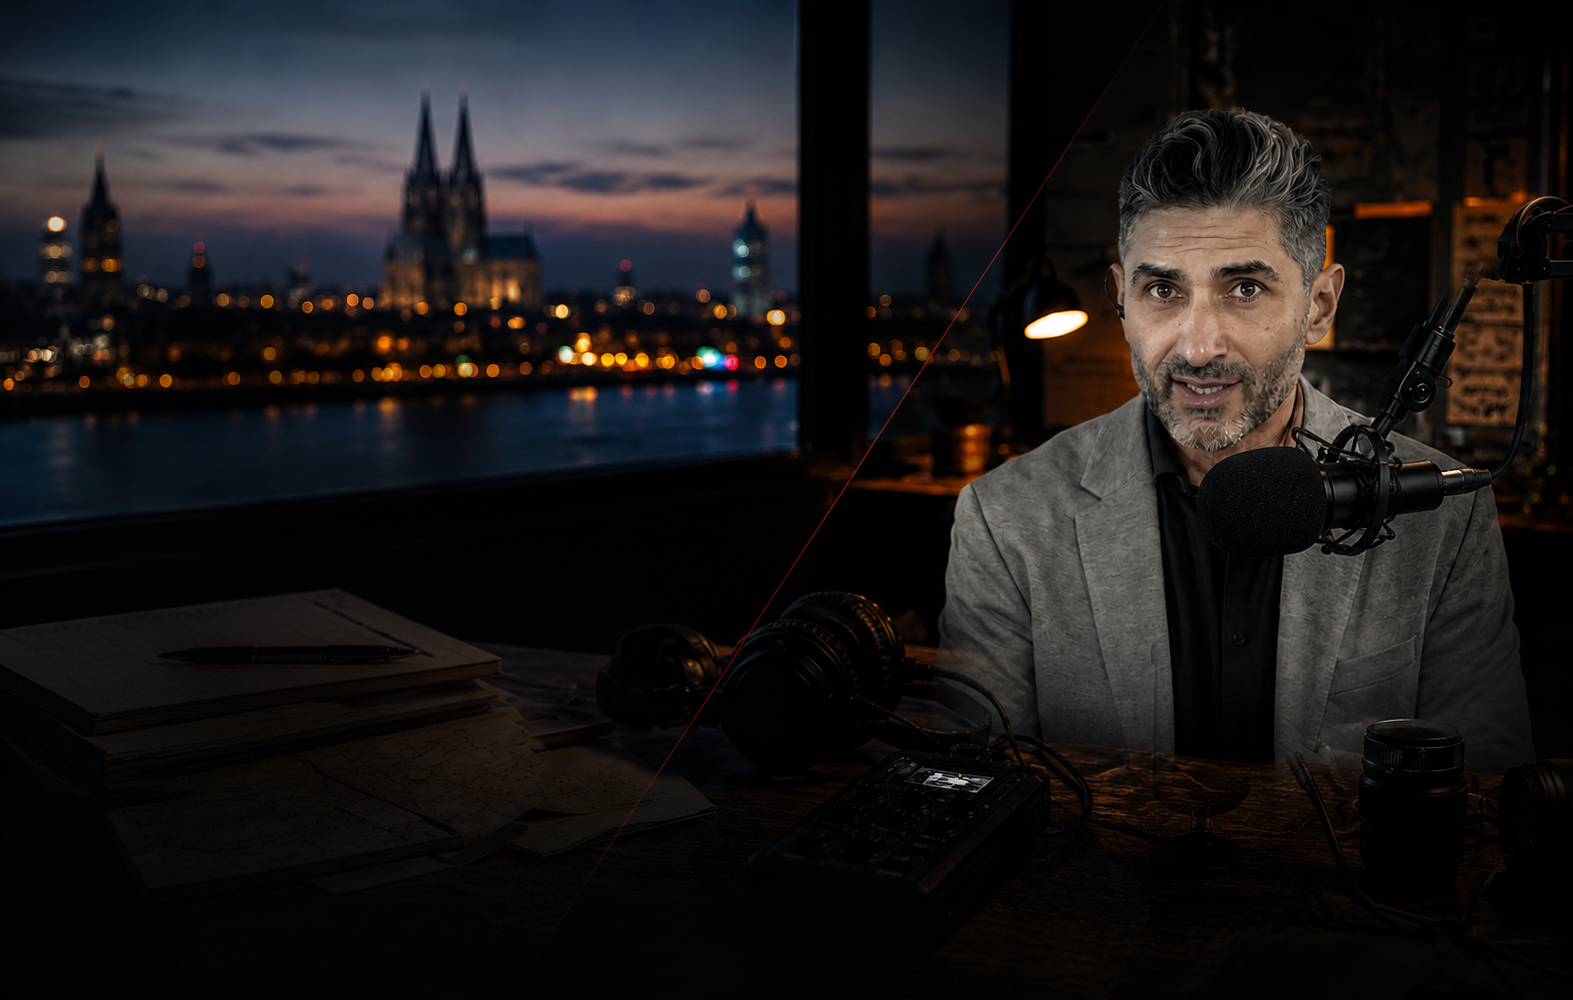
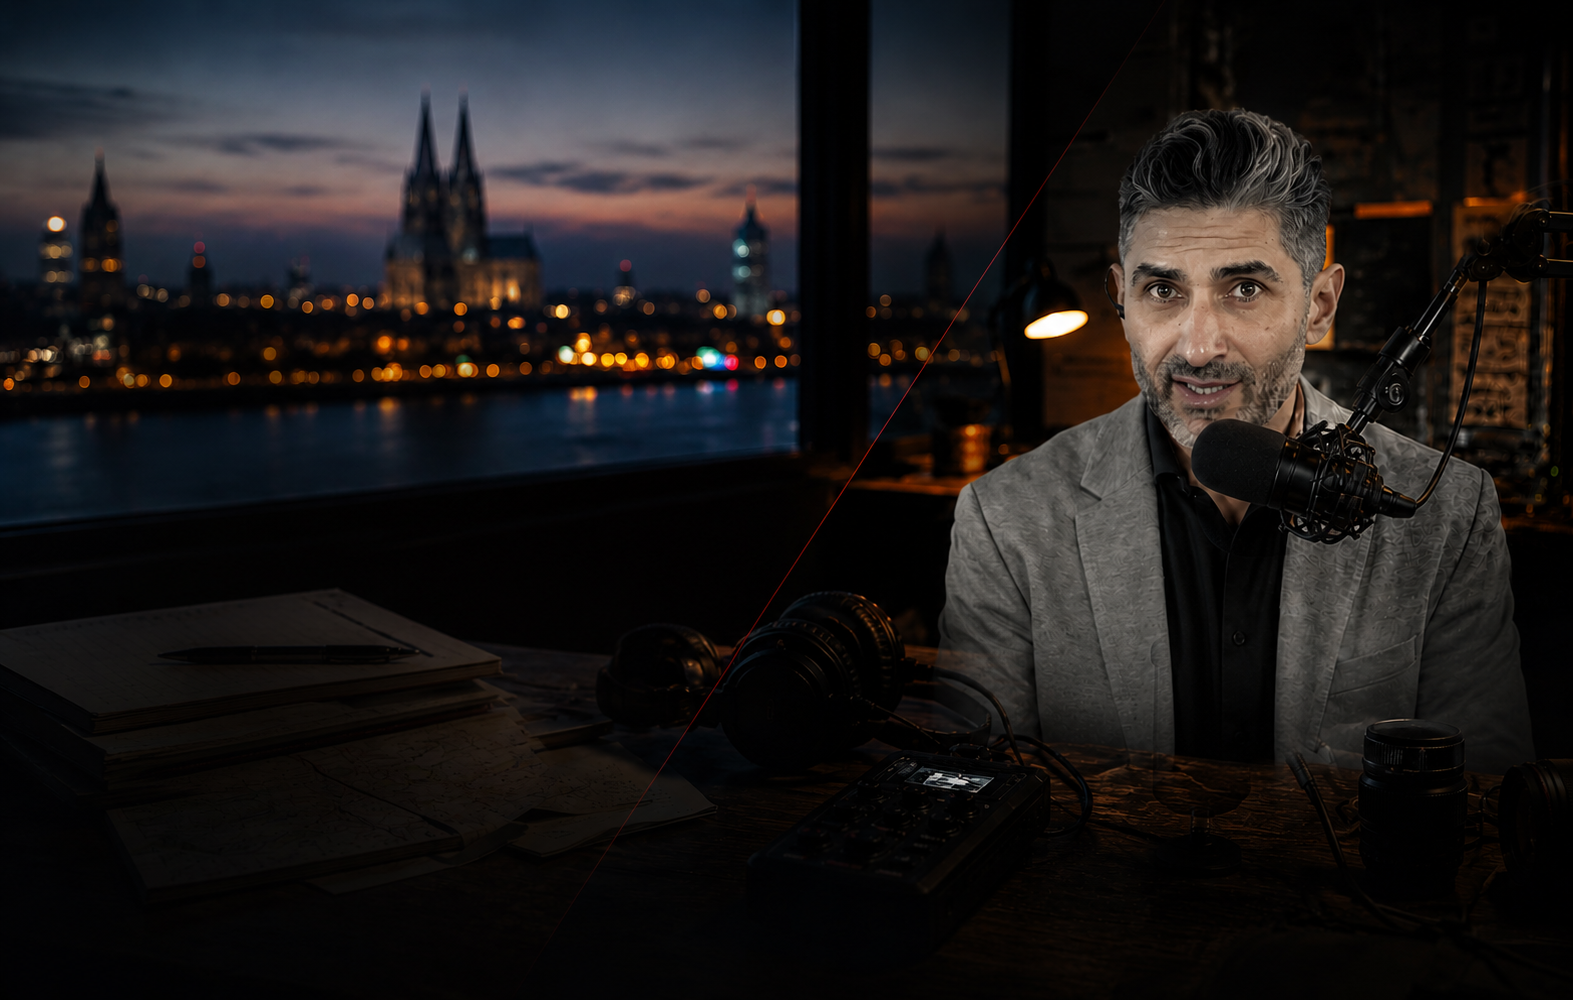
init commit

Changed region(s): [[0.7476, 0.217, 0.9968, 0.558], [0.9657, 0.186, 1.0, 0.217]]

diff --git a/src/routes/index.tsx b/src/routes/index.tsx
@@ -5,8 +5,8 @@ import {
   DialogTitle,
   DialogTrigger,
 } from "@/components/ui/dialog";
-import { FileText, Instagram, Mic, Video, X, Youtube } from "lucide-react";
-import { useState } from "react";
+import { ChevronLeft, ChevronRight, FileText, Instagram, Mic, Video, Youtube } from "lucide-react";
+import { useEffect, useRef, useState } from "react";
 
 const assetPath = (path: string) => `${import.meta.env.BASE_URL}${path}`;
 
@@ -43,11 +43,12 @@ const services = [
 const works = [
   {
     title: "Bildergalerie",
-    cat: "Feature",
+    cat: "Zur Galerie",
     img: assetPath("media/gallery-11.jpg"),
+    href: "#galerie",
   },
   {
-    title: "Migration & Integration",
+    title: "Online",
     cat: "Reportage",
     img: assetPath("media/migration-integration.jpeg"),
   },
@@ -112,6 +113,8 @@ const galleryImages = galleryItems.map(({ file, title }, index) => ({
   img: assetPath(`media/galerie/${file}`),
   className: index % 11 === 0 ? "sm:col-span-2" : index % 7 === 0 ? "md:col-span-2" : "",
 }));
+
+type GalleryImageData = (typeof galleryImages)[number];
 
 const INITIAL_GALLERY_COUNT = 5;
 
@@ -189,7 +192,7 @@ const nav = [
 
 const socialLinks = [
   { label: "YouTube", href: "https://www.youtube.com/@BTalks-Bamdad", Icon: Youtube, hasMenu: true },
-  { label: "X", href: "https://x.com/besmaili", Icon: X },
+  { label: "X", href: "https://x.com/besmaili", Icon: XPlatformIcon },
   { label: "Instagram", href: "https://www.instagram.com/bamdad_esmaili/?hl=de", Icon: Instagram },
 ];
 
@@ -200,12 +203,13 @@ const youtubeChannels = [
 
 const heroHighlights = [
   { title: "TV-Journalist", text: "WDR • DW • YouTube", Icon: Video },
-  { title: "Dokumentation", text: "Naher Osten • Europa", Icon: FileText },
+  { title: "Dokumentation", text: "Deutschland • Europa", Icon: FileText },
   { title: "Live-Berichte", text: "Politik • Gesellschaft • Migration", Icon: Mic },
 ];
 
 function Index() {
   const [isGalleryExpanded, setIsGalleryExpanded] = useState(false);
+  const [selectedGalleryIndex, setSelectedGalleryIndex] = useState<number | null>(null);
   const visibleGalleryImages = isGalleryExpanded
     ? galleryImages
     : galleryImages.slice(0, INITIAL_GALLERY_COUNT);
@@ -400,29 +404,41 @@ function Index() {
             <span className="label-eyebrow">04</span>
           </div>
           <div className="mt-10 grid gap-6 sm:grid-cols-2">
-            {works.map((w, i) => (
-              <article
-                key={w.title}
-                className={`hover-lift group overflow-hidden rounded-sm border border-border ${
-                  i % 3 === 0 ? "sm:col-span-2" : ""
-                }`}
-              >
-                <div className="overflow-hidden">
-                  <img
-                    src={w.img}
-                    alt={w.title}
-                    loading="lazy"
-                    className={`w-full object-cover grayscale transition-all duration-700 group-hover:scale-[1.03] group-hover:grayscale-0 ${
-                      i % 3 === 0 ? "aspect-[21/9]" : "aspect-[4/3]"
-                    }`}
-                  />
-                </div>
-                <div className="flex items-baseline justify-between px-6 py-5">
-                  <h3 className="text-xl">{w.title}</h3>
-                  <span className="label-eyebrow">{w.cat}</span>
-                </div>
-              </article>
-            ))}
+            {works.map((w, i) => {
+              const cardClassName = `hover-lift group overflow-hidden rounded-sm border border-border ${
+                i % 3 === 0 ? "sm:col-span-2" : ""
+              } ${w.href ? "block cursor-pointer" : ""}`;
+              const cardContent = (
+                <>
+                  <div className="overflow-hidden">
+                    <img
+                      src={w.img}
+                      alt={w.title}
+                      loading="lazy"
+                      className={`w-full object-cover grayscale transition-all duration-700 group-hover:scale-[1.03] group-hover:grayscale-0 ${
+                        i % 3 === 0 ? "aspect-[21/9]" : "aspect-[4/3]"
+                      }`}
+                    />
+                  </div>
+                  <div className="flex items-baseline justify-between px-6 py-5">
+                    <h3 className="text-xl">{w.title}</h3>
+                    <span className="label-eyebrow transition-colors group-hover:text-primary">
+                      {w.cat}
+                    </span>
+                  </div>
+                </>
+              );
+
+              return w.href ? (
+                <a key={w.title} href={w.href} className={cardClassName}>
+                  {cardContent}
+                </a>
+              ) : (
+                <article key={w.title} className={cardClassName}>
+                  {cardContent}
+                </article>
+              );
+            })}
           </div>
 
           <div id="galerie" className="mt-24 border-t border-border pt-16">
@@ -438,7 +454,11 @@ function Index() {
             </div>
             <div className="mt-10 grid auto-rows-[18rem] grid-flow-dense gap-4 sm:grid-cols-2 lg:grid-cols-3">
               {visibleGalleryImages.map((image) => (
-                <GalleryImage key={image.title} {...image} />
+                <GalleryImage
+                  key={image.title}
+                  image={image}
+                  onOpen={() => setSelectedGalleryIndex(galleryImages.indexOf(image))}
+                />
               ))}
             </div>
             {galleryImages.length > INITIAL_GALLERY_COUNT && (
@@ -499,7 +519,8 @@ function Index() {
           </div>
         </section>
 
-        {/* Themen */}
+        {/* Themen
+
         <section id="themen" className="border-t border-border bg-card/40">
           <div className="mx-auto max-w-6xl px-6 py-24">
             <p className="label-eyebrow">Aktuelle Themen</p>
@@ -524,7 +545,7 @@ function Index() {
             </div>
           </div>
         </section>
-
+*/}
         {/* Kontakt */}
         <section id="kontakt" className="relative overflow-hidden border-t border-border">
           <img
@@ -571,6 +592,12 @@ function Index() {
         </section>
       </main>
 
+      <GalleryViewer
+        images={galleryImages}
+        selectedIndex={selectedGalleryIndex}
+        onSelectedIndexChange={setSelectedGalleryIndex}
+      />
+
       <footer className="border-t border-border">
         <div className="mx-auto flex max-w-6xl flex-col gap-2 px-6 py-8 text-sm text-muted-foreground sm:flex-row sm:items-center sm:justify-between">
           <span>
@@ -601,42 +628,147 @@ function Index() {
 export default Index;
 
 function GalleryImage({
-  title,
-  context,
-  img,
-  className,
+  image,
+  onOpen,
 }: {
-  title: string;
-  context: string;
-  img: string;
-  className: string;
+  image: GalleryImageData;
+  onOpen: () => void;
 }) {
+  const { title, context, img, className } = image;
+
   return (
-    <Dialog>
-      <DialogTrigger
-        className={`hover-lift group relative overflow-hidden rounded-sm border border-border bg-background text-left ${className}`}
-      >
-        <img
-          src={img}
-          alt={title}
-          loading="lazy"
-          className="h-full w-full object-cover grayscale transition-all duration-700 group-hover:scale-[1.03] group-hover:grayscale-0"
-        />
-        <div
-          className="pointer-events-none absolute inset-x-0 bottom-0 bg-gradient-to-t from-background/88 via-background/36 to-transparent px-5 py-5"
-          aria-hidden
-        />
-        <div className="absolute inset-x-0 bottom-0 px-5 py-5">
-          <p className="label-eyebrow text-foreground/58">{context}</p>
-          <h3 className="mt-2 font-display text-2xl font-normal text-foreground">{title}</h3>
-        </div>
-      </DialogTrigger>
-      <DialogContent className="max-h-[92svh] max-w-5xl border-border bg-background/95 p-0 backdrop-blur-xl sm:rounded-sm">
-        <DialogHeader className="border-b border-border px-6 py-5">
-          <p className="label-eyebrow">{context}</p>
-          <DialogTitle className="font-display text-3xl font-normal">{title}</DialogTitle>
+    <button
+      type="button"
+      onClick={onOpen}
+      className={`hover-lift group relative overflow-hidden rounded-sm border border-border bg-background text-left ${className}`}
+    >
+      <img
+        src={img}
+        alt={title}
+        loading="lazy"
+        className="h-full w-full object-cover grayscale transition-all duration-700 group-hover:scale-[1.03] group-hover:grayscale-0"
+      />
+      <div
+        className="pointer-events-none absolute inset-x-0 bottom-0 bg-gradient-to-t from-background/88 via-background/36 to-transparent px-5 py-5"
+        aria-hidden
+      />
+      <div className="absolute inset-x-0 bottom-0 px-5 py-5">
+        <p className="label-eyebrow text-foreground/58">{context}</p>
+        <h3 className="mt-2 font-display text-2xl font-normal text-foreground">{title}</h3>
+      </div>
+    </button>
+  );
+}
+
+function GalleryViewer({
+  images,
+  selectedIndex,
+  onSelectedIndexChange,
+}: {
+  images: GalleryImageData[];
+  selectedIndex: number | null;
+  onSelectedIndexChange: (index: number | null) => void;
+}) {
+  const touchStartX = useRef<number | null>(null);
+  const open = selectedIndex !== null;
+  const activeIndex = selectedIndex ?? 0;
+  const activeImage = images[activeIndex];
+
+  useEffect(() => {
+    if (!open) {
+      return;
+    }
+
+    const handleKeyDown = (event: KeyboardEvent) => {
+      if (event.key === "ArrowLeft") {
+        showImage(activeIndex - 1);
+      }
+
+      if (event.key === "ArrowRight") {
+        showImage(activeIndex + 1);
+      }
+    };
+
+    window.addEventListener("keydown", handleKeyDown);
+
+    return () => {
+      window.removeEventListener("keydown", handleKeyDown);
+    };
+  });
+
+  const showImage = (index: number) => {
+    const nextIndex = (index + images.length) % images.length;
+    onSelectedIndexChange(nextIndex);
+  };
+
+  const handleTouchEnd = (event: React.TouchEvent<HTMLDivElement>) => {
+    if (touchStartX.current === null) {
+      return;
+    }
+
+    const swipeDistance = event.changedTouches[0].clientX - touchStartX.current;
+    touchStartX.current = null;
+
+    if (Math.abs(swipeDistance) < 50) {
+      return;
+    }
+
+    showImage(swipeDistance > 0 ? activeIndex - 1 : activeIndex + 1);
+  };
+
+  return (
+    <Dialog
+      open={open}
+      onOpenChange={(isOpen) => {
+        if (!isOpen) {
+          onSelectedIndexChange(null);
+        }
+      }}
+    >
+      <DialogContent className="max-h-[92svh] max-w-6xl overflow-hidden border-border bg-background/95 p-0 backdrop-blur-xl sm:rounded-sm">
+        <DialogHeader className="border-b border-border px-6 py-5 pr-14">
+          <p className="label-eyebrow">
+            Galerie · {String(activeIndex + 1).padStart(2, "0")} /{" "}
+            {String(images.length).padStart(2, "0")}
+          </p>
+          <DialogTitle className="font-display text-3xl font-normal">
+            {activeImage?.title}
+          </DialogTitle>
         </DialogHeader>
-        <img src={img} alt={title} className="max-h-[72svh] w-full object-contain" />
+        <div
+          className="relative bg-black/20"
+          onTouchStart={(event) => {
+            touchStartX.current = event.touches[0].clientX;
+          }}
+          onTouchEnd={handleTouchEnd}
+        >
+          <div
+            className="flex h-[72svh] w-full items-center justify-center px-4 py-4 sm:px-8"
+            key={activeImage?.img}
+          >
+            <img
+              src={activeImage?.img}
+              alt={activeImage?.title}
+              className="max-h-full max-w-full object-contain"
+            />
+          </div>
+          <button
+            type="button"
+            onClick={() => showImage(activeIndex - 1)}
+            className="absolute left-3 top-1/2 flex h-10 w-10 -translate-y-1/2 items-center justify-center rounded-full border border-white/20 bg-background/70 text-foreground transition-colors hover:bg-secondary sm:left-6"
+            aria-label="Vorheriges Bild"
+          >
+            <ChevronLeft className="h-5 w-5" aria-hidden />
+          </button>
+          <button
+            type="button"
+            onClick={() => showImage(activeIndex + 1)}
+            className="absolute right-3 top-1/2 flex h-10 w-10 -translate-y-1/2 items-center justify-center rounded-full border border-white/20 bg-background/70 text-foreground transition-colors hover:bg-secondary sm:right-6"
+            aria-label="Nächstes Bild"
+          >
+            <ChevronRight className="h-5 w-5" aria-hidden />
+          </button>
+        </div>
       </DialogContent>
     </Dialog>
   );
@@ -660,6 +792,20 @@ function SocialLinks({ className = "" }: { className?: string }) {
         </a>
       ))}
     </div>
+  );
+}
+
+function XPlatformIcon({ className = "" }: { className?: string }) {
+  return (
+    <svg
+      viewBox="0 0 24 24"
+      className={className}
+      fill="currentColor"
+      aria-hidden
+      focusable="false"
+    >
+      <path d="M13.9 10.47 21.35 2h-1.76l-6.47 7.35L7.96 2H2l7.81 11.12L2 22h1.76l6.83-7.76L16.04 22H22l-8.1-11.53Zm-2.42 2.75-.79-1.11L4.4 3.3h2.72l5.08 7.12.79 1.11 6.6 9.24h-2.72l-5.39-7.55Z" />
+    </svg>
   );
 }
 
